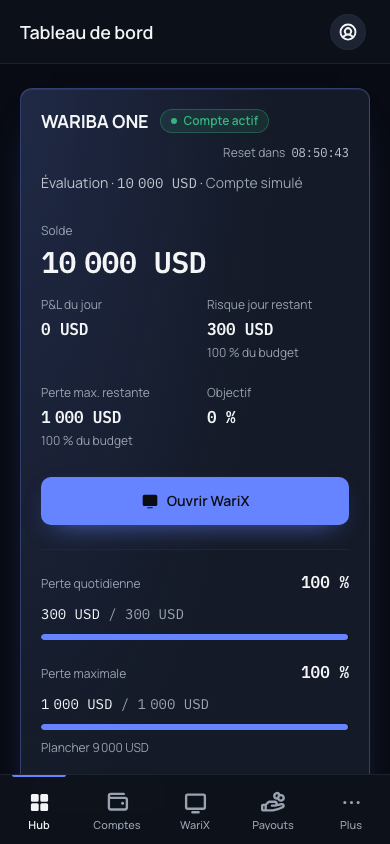
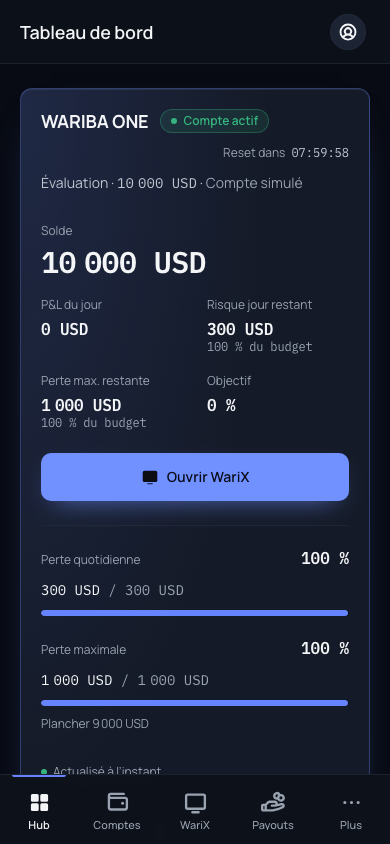
fix(ui): bring negative figures and definition lists to WCAG AA
Three real findings from running axe against populated surfaces rather
than empty ones.

--wariba-accent-red was #e05a5a, which measures 4.32:1 against
--warix-surface-raised — under the 4.5:1 AA floor for normal-weight text.
Every negative figure in the product is painted with it: a losing KPI, a
losing day, a losing symbol, a red row in the journal. The one colour that
reports bad news was the one colour a low-vision trader could not reliably
read. #e86060 measures 4.69:1 on the raised surface and 5.2:1 on the
canvas.

Fixed at the token rather than across some sixty call sites, which would
have meant two reds and a slow drift between them. Verified safe for WariX
before touching it: the workstation runs its own --warix-* palette and
references --wariba-accent-red in zero places, so this cannot alter WariX
V1. The wash and edge derive from the same hex, so a red panel's tint still
matches the figure on it.

Two definition lists were malformed. A <div> inside a <dl> may hold only a
<dt>/<dd> pair, and both the telemetry strip and the journal summary put a
hint <p> beside the <dd> instead of inside it — which costs a screen reader
the term/description pairing that is the entire reason those are <dl>s. The
win/loss ring had the same shape one level deeper, wrapping a row in a
second <div> to hang a separator on it; the separator is a class now.

The audit itself was also wrong before it was right. It sampled the page
[…]

Changed region(s): [[0.0923, 0.4005, 0.8923, 0.9242], [0.8615, 0.154, 0.8923, 0.1848]]

diff --git a/packages/application/scripts/seed-phase25-evidence.ts b/packages/application/scripts/seed-phase25-evidence.ts
@@ -5,7 +5,7 @@
  * refuses to run against anything but a local database (see `assertLocal`).
  * Every user it creates is `@wariba-test.invalid`.
  *
- *   pnpm --filter @wariba/test-utils exec tsx scripts/seed-phase25-evidence.ts
+ *   pnpm --filter @wariba/application seed:phase25
  */
 import { createDbClient, loadAccountBalanceProjection } from '@wariba/database';
 import {
@@ -16,9 +16,13 @@ import {
   buildJournalView,
   buildPerformanceAnalytics,
   listAccountsForUser,
-} from '@wariba/application';
-import { E2E_TEST_PASSWORD, createFixtureAccount, createFixtureDb } from '../src/hub-account-fixture';
-import { seedTradingRecord } from '../src/trading-record-fixture';
+} from '../src/index';
+import {
+  E2E_TEST_PASSWORD,
+  createFixtureAccount,
+  createFixtureDb,
+  seedTradingRecord,
+} from '@wariba/test-utils';
 
 /**
  * A guard, not a formality.
@@ -83,7 +87,11 @@ async function main(): Promise<void> {
   console.log('avg win     ', analytics.kpis.averageWin);
   console.log('avg loss    ', analytics.kpis.averageLoss);
   console.log('expectancy  ', analytics.kpis.expectancy);
-  console.log('best day    ', analytics.kpis.bestDay?.date, analytics.kpis.bestDay?.netPnlFormatted);
+  console.log(
+    'best day    ',
+    analytics.kpis.bestDay?.date,
+    analytics.kpis.bestDay?.netPnlFormatted,
+  );
   console.log(
     'worst day   ',
     analytics.kpis.worstDay?.date,
@@ -92,8 +100,14 @@ async function main(): Promise<void> {
   console.log('trading days', analytics.kpis.tradingDays);
   console.log('streak      ', analytics.kpis.currentStreak);
   console.log('avg duration', analytics.kpis.averageDurationMs, 'ms');
-  console.log('by symbol   ', analytics.bySymbol.map((s) => `${s.symbol} ${s.netPnlFormatted}`));
-  console.log('by duration ', analytics.byDuration.map((d) => `${d.label} ${d.wins}W/${d.losses}L`));
+  console.log(
+    'by symbol   ',
+    analytics.bySymbol.map((s) => `${s.symbol} ${s.netPnlFormatted}`),
+  );
+  console.log(
+    'by duration ',
+    analytics.byDuration.map((d) => `${d.label} ${d.wins}W/${d.losses}L`),
+  );
   console.log('');
   console.log('--- journal ---');
   console.log('entries     ', journal.entries.length);
@@ -102,22 +116,44 @@ async function main(): Promise<void> {
   console.log('balance          ', hub.balanceFormatted, '| raw', hub.amounts.balance);
   console.log('P&L today        ', hub.pnlTodayFormatted, '| raw', hub.amounts.pnlToday);
   console.log('finalised days   ', hub.finalizedSessionCount);
-  console.log('history points   ', hub.balanceHistory.length, '| meaningful', hub.balanceHistoryMeaningful);
+  console.log(
+    'history points   ',
+    hub.balanceHistory.length,
+    '| meaningful',
+    hub.balanceHistoryMeaningful,
+  );
   console.log('daily P&L points ', hub.dailyPnl.length);
-  console.log('daily room       ', risk.dailyLossRemainingFormatted, `(${risk.room.dailyRemainingPercent}%)`);
-  console.log('max room         ', risk.maximumLossRemainingFormatted, `(${risk.room.maximumRemainingPercent}%)`);
+  console.log(
+    'daily room       ',
+    risk.dailyLossRemainingFormatted,
+    `(${risk.room.dailyRemainingPercent}%)`,
+  );
+  console.log(
+    'max room         ',
+    risk.maximumLossRemainingFormatted,
+    `(${risk.room.maximumRemainingPercent}%)`,
+  );
   console.log('binding          ', risk.room.binding);
   console.log('next reset       ', risk.nextResetAt);
-  console.log('objective        ', mission.available ? `${mission.progressPercent}%` : mission.reason);
-  console.log('consistency      ', mission.available && mission.consistency
-    ? `${mission.consistency.ratioPercent}% / limit ${mission.consistency.limitPercent}%`
-    : '—');
+  console.log(
+    'objective        ',
+    mission.available ? `${mission.progressPercent}%` : mission.reason,
+  );
+  console.log(
+    'consistency      ',
+    mission.available && mission.consistency
+      ? `${mission.consistency.ratioPercent}% / limit ${mission.consistency.limitPercent}%`
+      : '—',
+  );
   console.log('');
   console.log('--- command center ---');
   console.log('lifecycle         ', command.lifecycle.state, '|', command.lifecycle.label);
   console.log('health            ', command.health.state, '|', command.health.label);
   console.log('meaningful activity', command.hasMeaningfulActivity);
-  console.log('thresholds        ', command.thresholds.map((t) => `${t.label} ${t.value}`));
+  console.log(
+    'thresholds        ',
+    command.thresholds.map((t) => `${t.label} ${t.value}`),
+  );
 
   console.log('\n=== FRESH ACCOUNT ===');
   console.log('email     ', fresh.email);

diff --git a/apps/web/components/hub/WinLossRing.tsx b/apps/web/components/hub/WinLossRing.tsx
@@ -87,6 +87,14 @@ export function WinLossRing({ kpis }: { kpis: PerformanceKpis }) {
           </div>
         </div>
 
+        {/*
+         * Every child of the <dl> is one <div> holding a <dt>/<dd> pair, and
+         * nothing deeper. Wrapping a row in a second <div> to hang a separator
+         * on it put the <dt> two levels down, which is a malformed definition
+         * list — axe reports it as `definition-list` and `dlitem`, and a screen
+         * reader loses the term/description pairing that is the entire reason
+         * this is a <dl>. The separator is a class on the row instead.
+         */}
         <dl className="flex min-w-0 flex-1 flex-col gap-3">
           <Row
             label="Trades gagnants"
@@ -98,13 +106,12 @@ export function WinLossRing({ kpis }: { kpis: PerformanceKpis }) {
             value={String(kpis.losses)}
             color="var(--wariba-accent-red)"
           />
-          <div className="border-t border-[color:var(--warix-border-subtle)] pt-3">
-            <Row
-              label="Gain moyen"
-              value={formatUsd(kpis.averageWin) ?? '—'}
-              color="var(--wariba-accent-emerald)"
-            />
-          </div>
+          <Row
+            label="Gain moyen"
+            value={formatUsd(kpis.averageWin) ?? '—'}
+            color="var(--wariba-accent-emerald)"
+            className="border-t border-[color:var(--warix-border-subtle)] pt-3"
+          />
           <Row
             label="Perte moyenne"
             value={formatUsd(kpis.averageLoss) ?? '—'}
@@ -130,9 +137,19 @@ export function WinLossRing({ kpis }: { kpis: PerformanceKpis }) {
   );
 }
 
-function Row({ label, value, color }: { label: string; value: string; color: string }) {
+function Row({
+  label,
+  value,
+  color,
+  className,
+}: {
+  label: string;
+  value: string;
+  color: string;
+  className?: string;
+}) {
   return (
-    <div className="flex items-baseline justify-between gap-3">
+    <div className={`flex items-baseline justify-between gap-3 ${className ?? ''}`}>
       <dt className="flex items-center gap-2 text-[length:var(--wariba-font-size-body-sm)] text-[color:var(--wariba-text-secondary)]">
         <span
           aria-hidden="true"

diff --git a/apps/web/tests/e2e/wariba-product-os-phase25.spec.ts b/apps/web/tests/e2e/wariba-product-os-phase25.spec.ts
@@ -47,10 +47,6 @@ async function signIn(page: Page, email: string) {
   await page.waitForURL('**/hub', { timeout: 60_000 });
 }
 
-async function signOut(page: Page) {
-  await page.context().clearCookies();
-}
-
 async function shoot(page: Page, name: string) {
   mkdirSync(OUT, { recursive: true });
   // Long enough for the stagger to settle and one telemetry tick to land, so
@@ -357,6 +353,17 @@ test.describe('@phase25 Product OS 2.5 — command centre', () => {
         await settled(page);
       }
 
+      /*
+       * Let the entrance settle before measuring.
+       *
+       * `Stagger` fades panels in from opacity 0. axe computes contrast from
+       * *rendered* colour, so a card sampled at opacity 0.4 reports its text
+       * blended toward the background and fails a check it passes at rest.
+       * Auditing mid-animation measures the animation, not the design — and
+       * produces a suite whose result depends on how fast the machine is.
+       */
+      await page.waitForTimeout(1200);
+
       const results = await new AxeBuilder({ page })
         .withTags(['wcag2a', 'wcag2aa', 'wcag21a', 'wcag21aa'])
         .analyze();
@@ -364,10 +371,18 @@ test.describe('@phase25 Product OS 2.5 — command centre', () => {
       const blocking = results.violations.filter(
         (violation) => violation.impact === 'critical' || violation.impact === 'serious',
       );
-      // Named in the failure so a regression says which rule broke, not just
-      // that a number went up.
+      /*
+       * The failure names the rule *and the node*. "serious: color-contrast"
+       * tells you something broke; it does not tell you which of ninety
+       * elements, and hunting for it by eye is how an accessibility failure
+       * gets suppressed instead of fixed.
+       */
       expect(
-        blocking.map((violation) => `${violation.impact}: ${violation.id}`),
+        blocking.flatMap((violation) =>
+          violation.nodes.map(
+            (node) => `${violation.impact}: ${violation.id} @ ${node.target.join(' ')}`,
+          ),
+        ),
       ).toEqual([]);
     });
   }

diff --git a/apps/web/app/(platform)/hub/TelemetryStrip.tsx b/apps/web/app/(platform)/hub/TelemetryStrip.tsx
@@ -103,9 +103,7 @@ export function TelemetryStrip({ balance, figures }: TelemetryStripProps) {
           <dd
             className="wariba-data mt-1 text-[length:var(--wariba-font-size-heading-xs)] font-semibold leading-none tracking-[-0.01em]"
             style={{
-              color: figure.signed
-                ? signColor(figure.numericValue)
-                : 'var(--wariba-text-primary)',
+              color: figure.signed ? signColor(figure.numericValue) : 'var(--wariba-text-primary)',
             }}
           >
             {typeof figure.numericValue === 'number' && figure.unit ? (
@@ -120,12 +118,19 @@ export function TelemetryStrip({ balance, figures }: TelemetryStripProps) {
             ) : (
               figure.value
             )}
+            {/*
+             * Inside the <dd>, not beside it. A <div> within a <dl> may hold
+             * only <dt>/<dd> pairs — a sibling <p> makes the list malformed
+             * (axe `definition-list`) and costs a screen reader the term /
+             * description pairing that is the whole point of the element. The
+             * hint qualifies the value, so it belongs to the value.
+             */}
+            {figure.hint ? (
+              <span className="mt-1 block text-[length:var(--wariba-font-size-label-sm)] font-normal text-[color:var(--wariba-text-tertiary)]">
+                {figure.hint}
+              </span>
+            ) : null}
           </dd>
-          {figure.hint ? (
-            <p className="mt-1 text-[length:var(--wariba-font-size-label-sm)] text-[color:var(--wariba-text-tertiary)]">
-              {figure.hint}
-            </p>
-          ) : null}
         </div>
       ))}
     </dl>

diff --git a/apps/web/app/globals.css b/apps/web/app/globals.css
@@ -173,9 +173,27 @@
   --wariba-accent-amber-wash: color-mix(in srgb, #e2a53a 12%, transparent);
   --wariba-accent-amber-edge: color-mix(in srgb, #e2a53a 34%, transparent);
 
-  --wariba-accent-red: #e05a5a;
-  --wariba-accent-red-wash: color-mix(in srgb, #e05a5a 12%, transparent);
-  --wariba-accent-red-edge: color-mix(in srgb, #e05a5a 34%, transparent);
+  /*
+   * Raised from #e05a5a in Phase 2.5, to clear WCAG AA as text.
+   *
+   * The old value measured 4.32:1 against --warix-surface-raised (#1c2333),
+   * just under the 4.5:1 AA floor for normal-weight text. Every negative
+   * figure in the product is painted with it — a losing KPI, a losing day, a
+   * losing symbol, a red row in the journal — so the one colour that reports
+   * bad news was the one colour a low-vision trader could not reliably read.
+   * #e86060 measures 4.69:1 on the raised surface and 5.2:1 on the canvas.
+   *
+   * Fixed centrally rather than per call site (§29): the alternative was a
+   * separate red-for-text token threaded through some sixty usages, which is
+   * two reds that would drift. Verified safe for WariX — the workstation runs
+   * its own --warix-* palette and references --wariba-accent-red nowhere.
+   *
+   * The wash and edge derive from the same hex, so a red panel's tint and rim
+   * still match the figure sitting on them.
+   */
+  --wariba-accent-red: #e86060;
+  --wariba-accent-red-wash: color-mix(in srgb, #e86060 12%, transparent);
+  --wariba-accent-red-edge: color-mix(in srgb, #e86060 34%, transparent);
 
   --wariba-accent-cyan: #3fb8c4;
   --wariba-accent-cyan-wash: color-mix(in srgb, #3fb8c4 12%, transparent);

diff --git a/apps/web/app/(platform)/hub/Launchpad.tsx b/apps/web/app/(platform)/hub/Launchpad.tsx
@@ -64,7 +64,12 @@ export function Launchpad({ catalog }: { catalog: OfferCatalog }) {
                 Performance.
               </p>
               <div className="mt-5 flex flex-wrap items-center gap-3">
-                <ActionLink href="/comptes/nouveau" size="lg" icon="addAccount" data-testid="launchpad-primary">
+                <ActionLink
+                  href="/comptes/nouveau"
+                  size="lg"
+                  icon="addAccount"
+                  data-testid="launchpad-primary"
+                >
                   Choisir une évaluation
                 </ActionLink>
                 <ActionLink href="/programme#regles" variant="ghost" size="lg">
@@ -180,8 +185,7 @@ export function Launchpad({ catalog }: { catalog: OfferCatalog }) {
                 </dl>
                 {catalog.policyVersion ? (
                   <p className="mt-4 text-[length:var(--wariba-font-size-label-sm)] text-[color:var(--wariba-text-tertiary)]">
-                    Version des règles{' '}
-                    <span className="wariba-data">{catalog.policyVersion}</span>
+                    Version des règles <span className="wariba-data">{catalog.policyVersion}</span>
                     {' · '}
                     exemple pour {catalog.offers[0]?.nominalFormatted}
                   </p>

diff --git a/apps/web/app/(platform)/journal/JournalSummary.tsx b/apps/web/app/(platform)/journal/JournalSummary.tsx
@@ -43,12 +43,15 @@ export function JournalSummary({ summary }: { summary: JournalSummaryView | null
           <dt className="text-[length:var(--wariba-font-size-label-sm)] text-[color:var(--wariba-text-tertiary)]">
             Trades clôturés
           </dt>
-          <dd className="wariba-data mt-1 text-[22px] font-semibold leading-none text-[color:var(--wariba-text-primary)]">
-            {summary.tradeCount}
+          {/* The breakdown lives inside the <dd> — see TelemetryStrip's note. */}
+          <dd className="mt-1">
+            <span className="wariba-data text-[22px] font-semibold leading-none text-[color:var(--wariba-text-primary)]">
+              {summary.tradeCount}
+            </span>
+            <span className="mt-1 block text-[length:var(--wariba-font-size-label-sm)] text-[color:var(--wariba-text-tertiary)]">
+              {summary.wins} gagnants · {summary.losses} perdants
+            </span>
           </dd>
-          <p className="mt-1 text-[length:var(--wariba-font-size-label-sm)] text-[color:var(--wariba-text-tertiary)]">
-            {summary.wins} gagnants · {summary.losses} perdants
-          </p>
         </div>
 
         <div className="min-w-0">

diff --git a/packages/test-utils/src/trading-record-fixture.ts b/packages/test-utils/src/trading-record-fixture.ts
@@ -261,9 +261,7 @@ export async function seedTradingRecord(
     .selectFrom('app.trading_accounts')
     .select(['nominal_balance', 'policy_version_id'])
     .where('id', '=', accountId)
-    .executeTakeFirstOrThrow(
-      () => new Error(`seedTradingRecord: account ${accountId} not found.`),
-    );
+    .executeTakeFirstOrThrow(() => new Error(`seedTradingRecord: account ${accountId} not found.`));
 
   const maximumLossRate = new Decimal('0.08');
   let sequence = 1;
@@ -539,8 +537,5 @@ export async function deleteTradingRecord(db: Db, accountId: string): Promise<vo
   await db.deleteFrom('app.fills').where('account_id', '=', accountId).execute();
   await db.deleteFrom('app.trade_orders').where('account_id', '=', accountId).execute();
   await db.deleteFrom('app.positions').where('account_id', '=', accountId).execute();
-  await db
-    .deleteFrom('app.account_daily_snapshots')
-    .where('account_id', '=', accountId)
-    .execute();
+  await db.deleteFrom('app.account_daily_snapshots').where('account_id', '=', accountId).execute();
 }

diff --git a/packages/application/src/command-center.ts b/packages/application/src/command-center.ts
@@ -133,12 +133,10 @@ export async function buildCommandCenterView(
     (isPerformance
       ? buildAccountPerformanceMissionView(db, { accountId: account.id })
       : buildAccountMissionView(db, { accountId: account.id, now })
-    ).catch(
-      (): AccountMissionUnavailable => ({
-        available: false,
-        reason: 'La progression de ce compte n’est pas encore disponible.',
-      }),
-    ),
+    ).catch((): AccountMissionUnavailable => ({
+      available: false,
+      reason: 'La progression de ce compte n’est pas encore disponible.',
+    })),
     buildAccountRiskView(db, { accountId: account.id, now }),
     buildRecentActivityView(db, { accountId: account.id, limit: 12 }),
     buildOpenPositionsView(db, { accountId: account.id }),

diff --git a/apps/web/app/(platform)/journal/JournalTable.tsx b/apps/web/app/(platform)/journal/JournalTable.tsx
@@ -43,8 +43,8 @@ export function JournalTable({ entries }: { entries: readonly JournalEntry[] }) 
     <div className="hidden overflow-x-auto lg:block">
       <table className="w-full border-collapse text-left" data-testid="journal-table">
         <caption className="sr-only">
-          Aller-retours clôturés : date, instrument, sens, quantité, prix d’entrée, prix de
-          sortie, durée et résultat net.
+          Aller-retours clôturés : date, instrument, sens, quantité, prix d’entrée, prix de sortie,
+          durée et résultat net.
         </caption>
         <thead>
           <tr className="border-b border-[color:var(--warix-border-subtle)]">

diff --git a/apps/web/app/(platform)/journal/page.tsx b/apps/web/app/(platform)/journal/page.tsx
@@ -152,10 +152,7 @@ export default async function JournalPage({
           <Surface className="p-3 sm:p-4 lg:p-5">
             {/* Table from lg up, cards below — see JournalTable's note. */}
             <JournalTable entries={journal.entries} />
-            <ul
-              data-testid="journal-list"
-              className="flex list-none flex-col gap-2 p-0 lg:hidden"
-            >
+            <ul data-testid="journal-list" className="flex list-none flex-col gap-2 p-0 lg:hidden">
               {journal.entries.map((entry) => (
                 <TradeRow key={entry.id} entry={entry} />
               ))}

diff --git a/apps/web/app/(platform)/hub/DailyPnlStrip.tsx b/apps/web/app/(platform)/hub/DailyPnlStrip.tsx
@@ -150,8 +150,7 @@ export function DailyPnlStrip({ points }: { points: readonly DailyPnlPoint[] }) 
           <dd
             className="wariba-data text-[length:var(--wariba-font-size-body-sm)] font-medium"
             style={{
-              color:
-                worst.netPnl < 0 ? 'var(--wariba-accent-red)' : 'var(--wariba-text-primary)',
+              color: worst.netPnl < 0 ? 'var(--wariba-accent-red)' : 'var(--wariba-text-primary)',
             }}
           >
             {formatSigned(worst.netPnl)}
